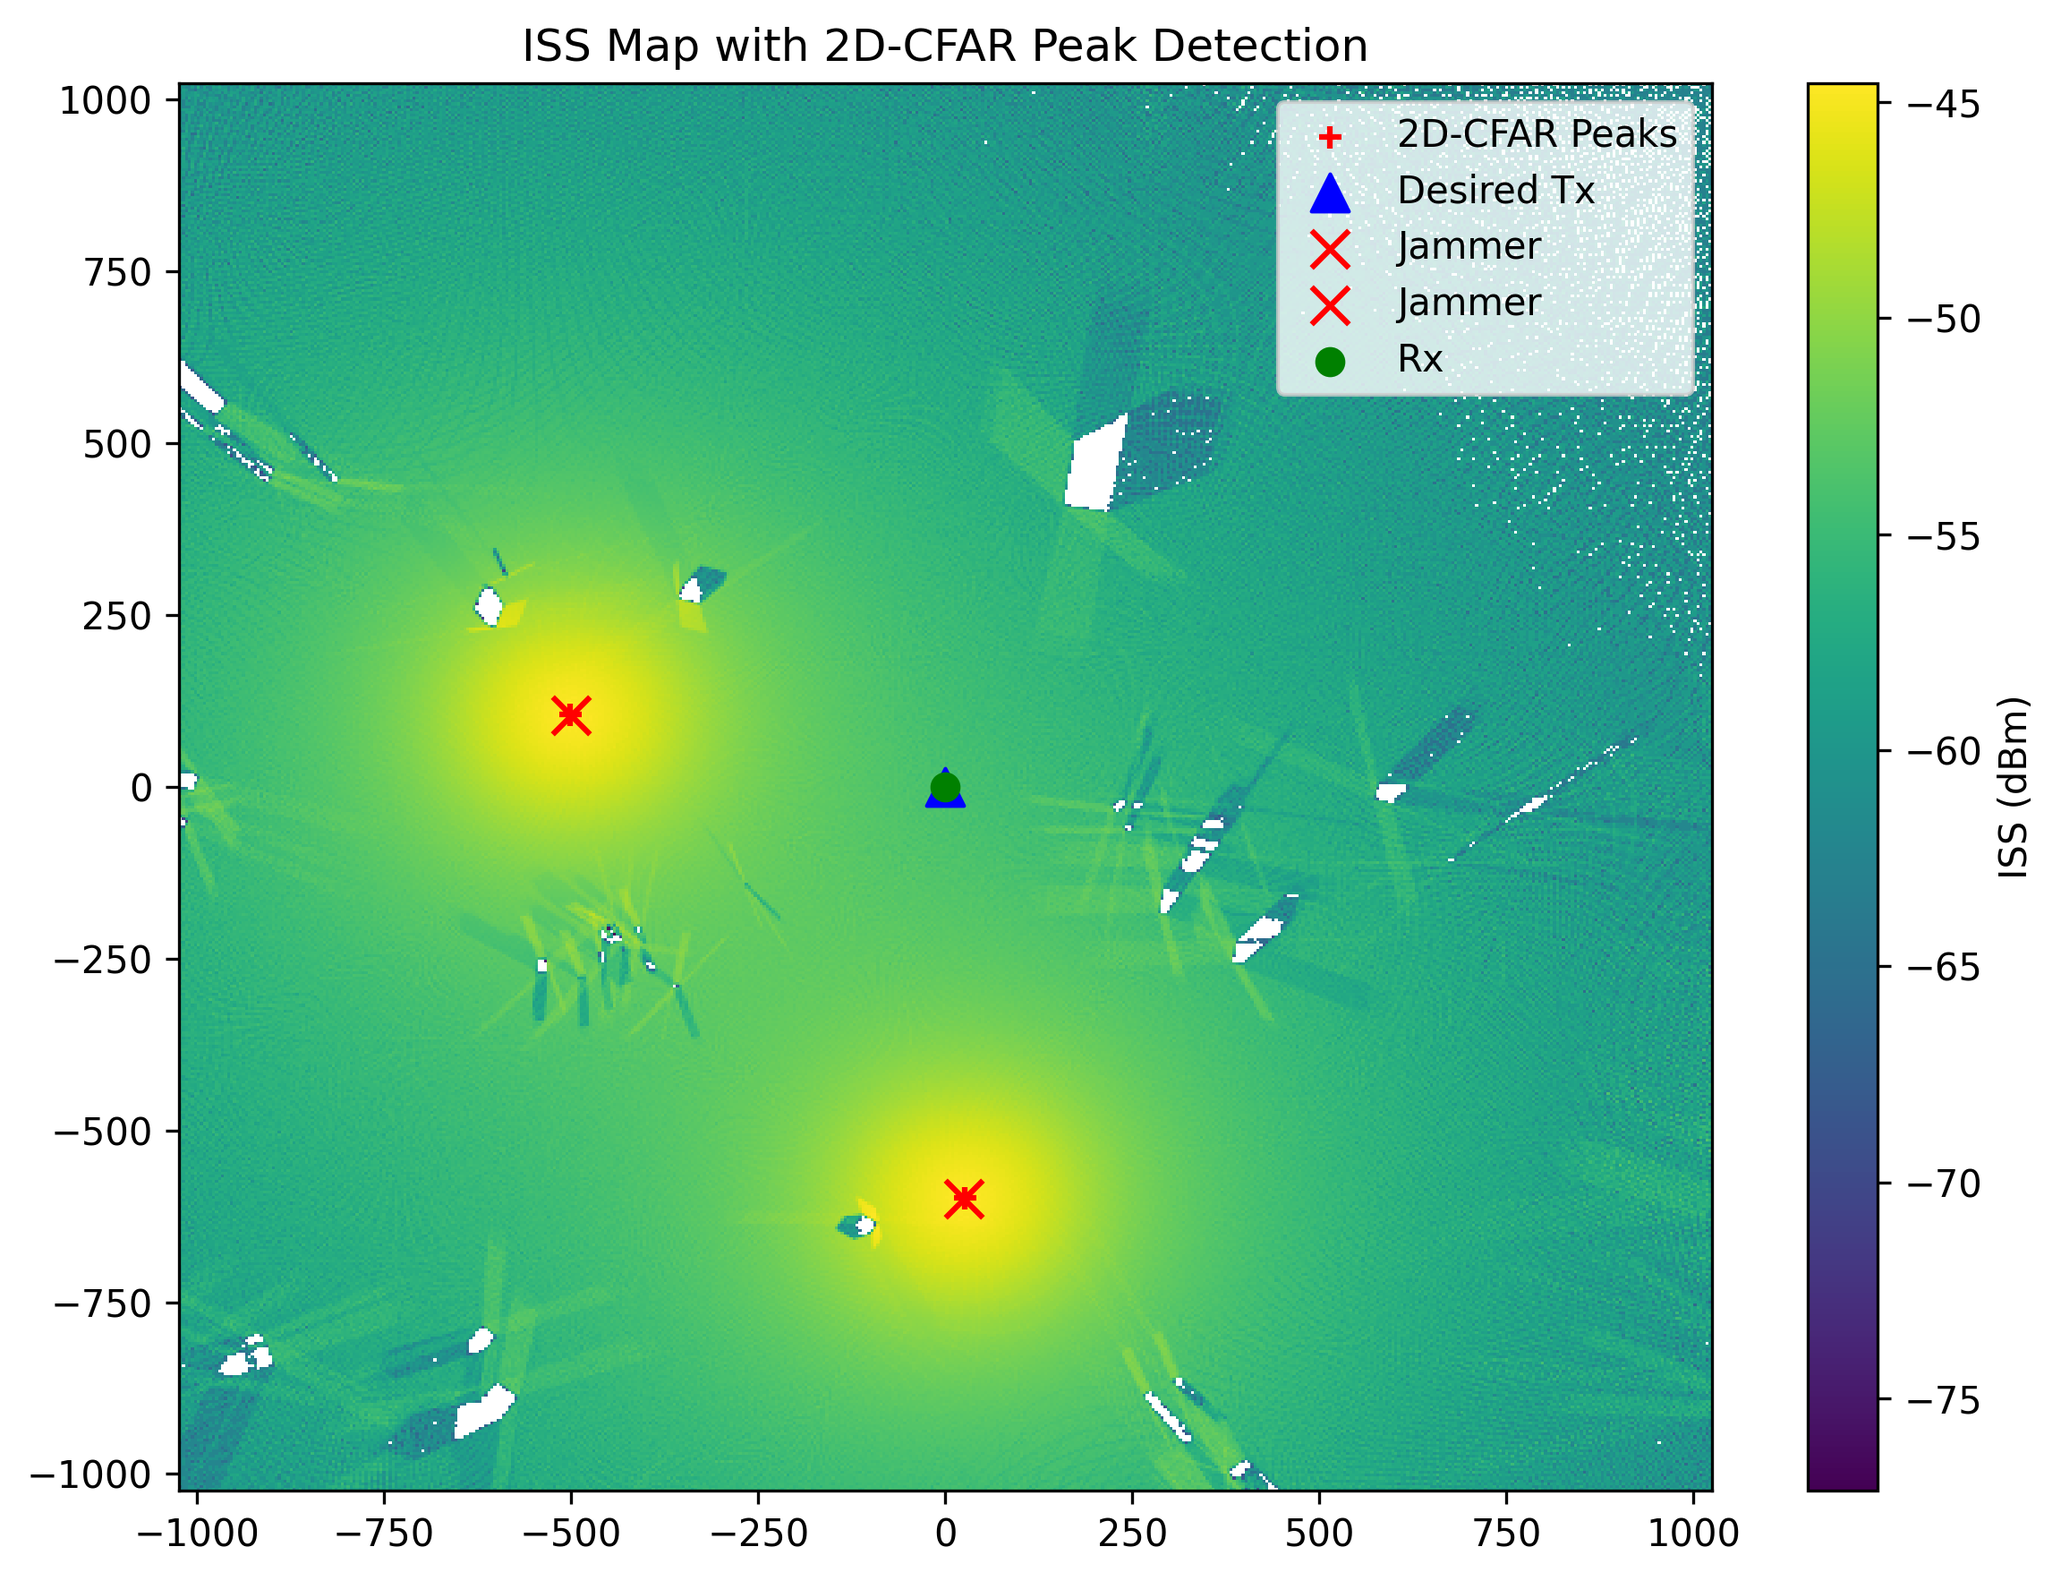
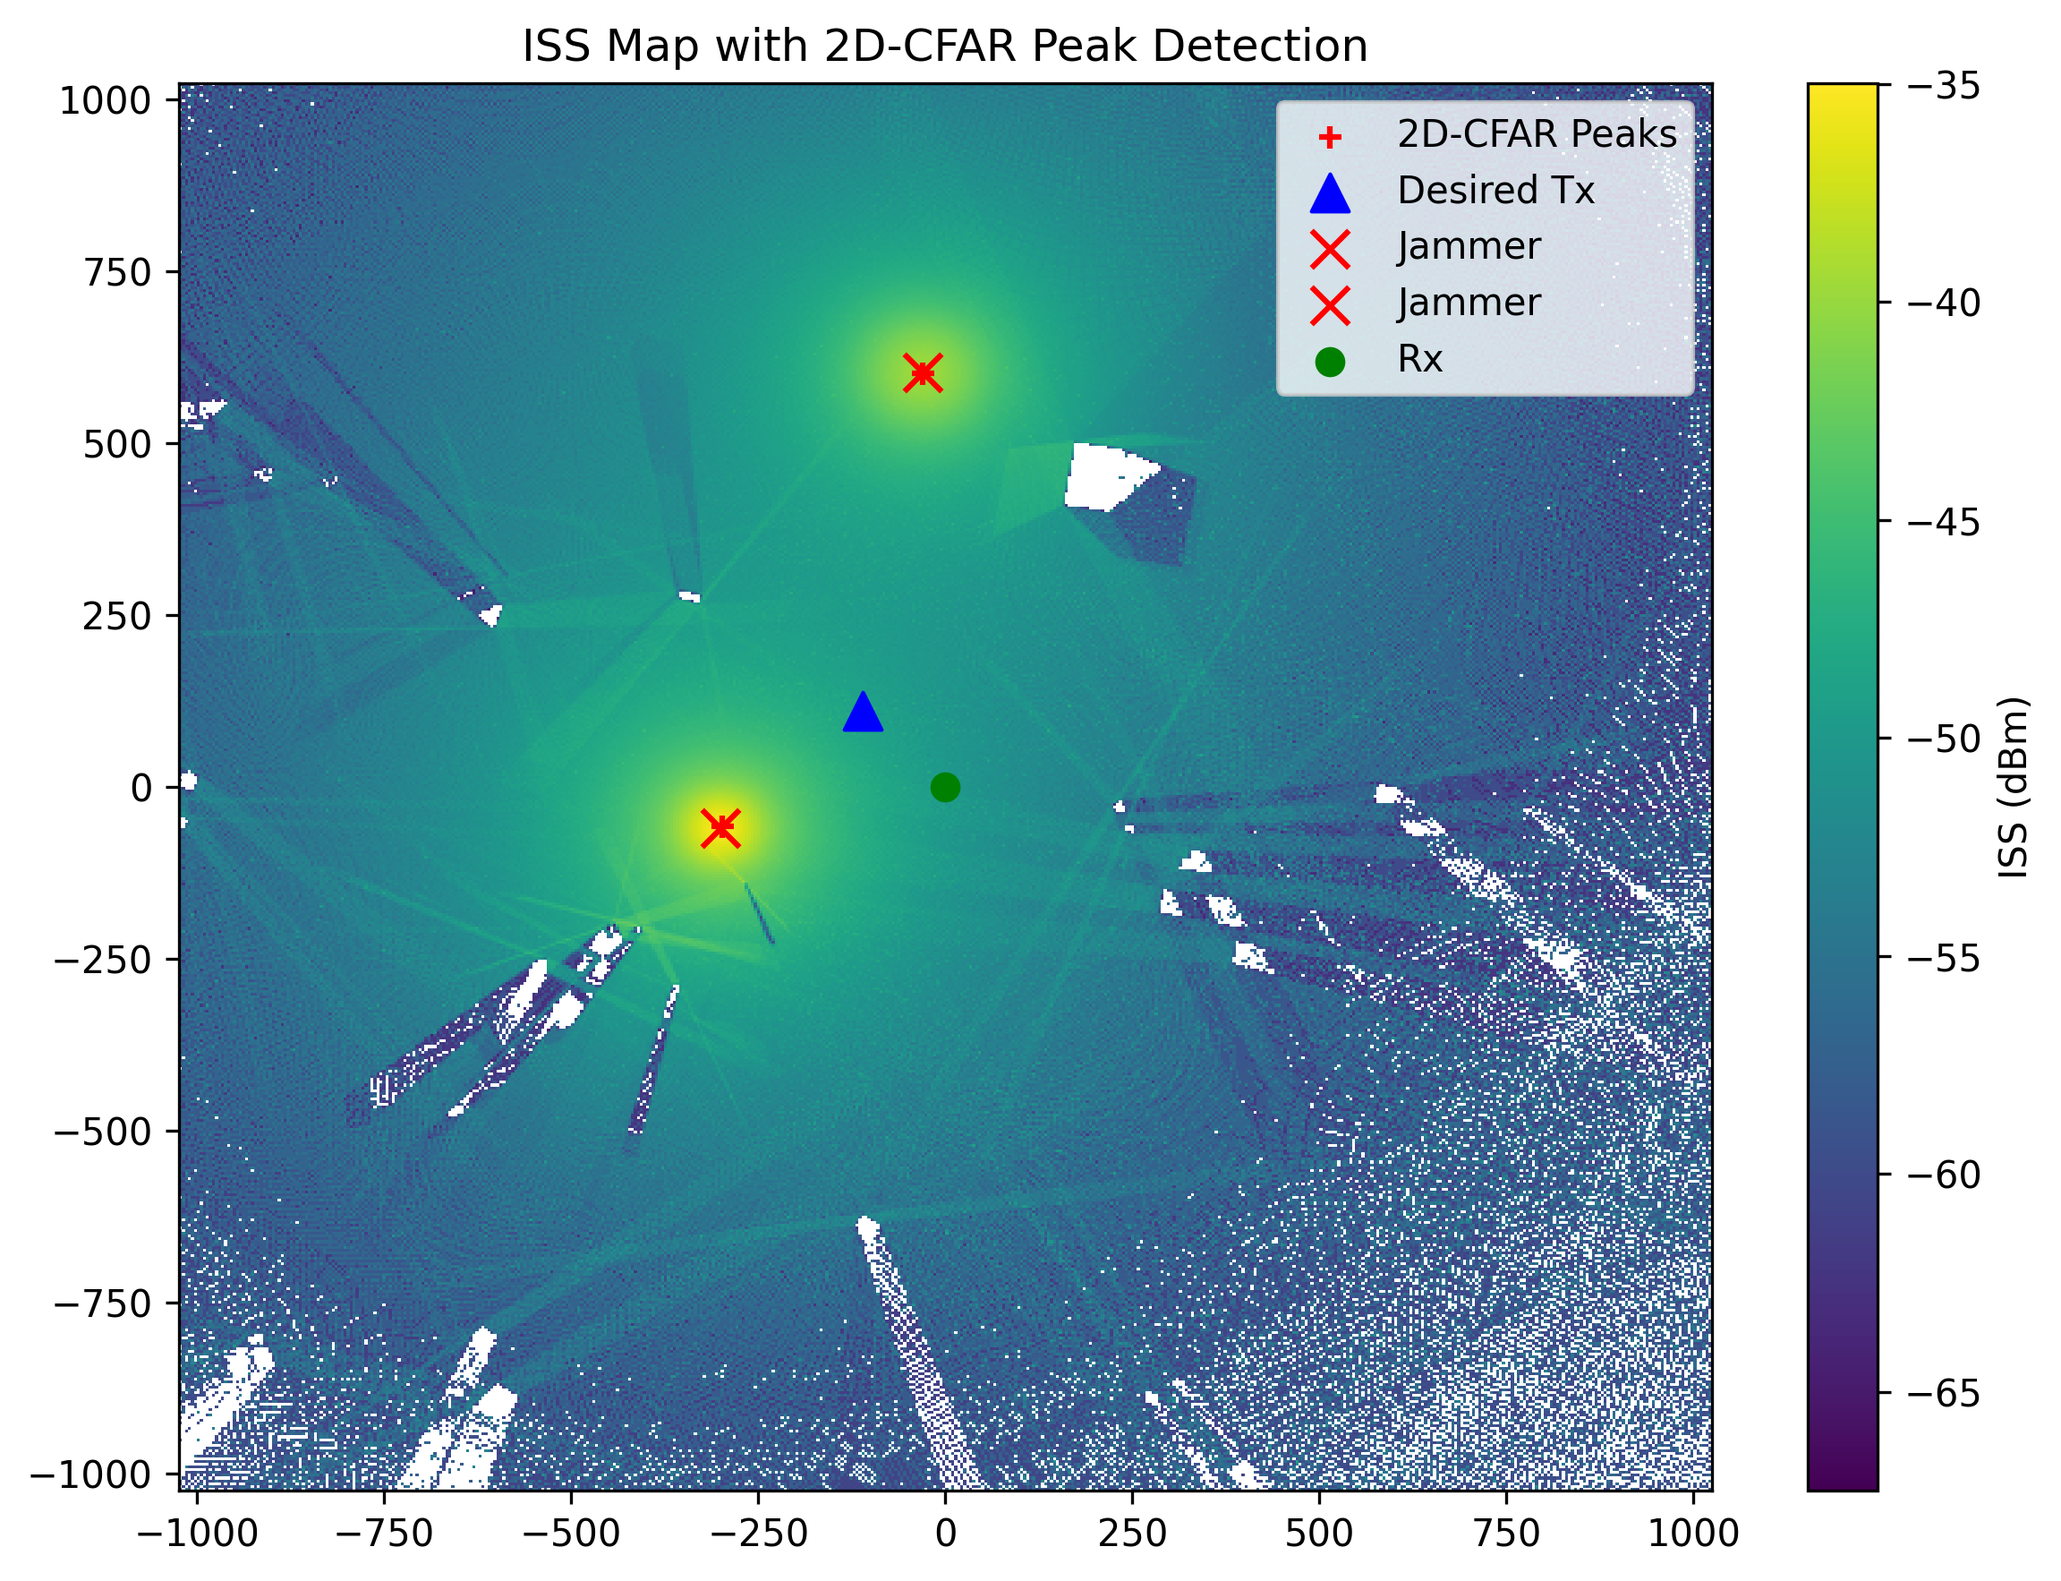
first commit07291

diff --git a/frontend/src/components/scenes/UAVPathVisualization.tsx b/frontend/src/components/scenes/UAVPathVisualization.tsx
@@ -1,0 +1,153 @@
+/**
+ * UAV Path Visualization Component
+ * 
+ * Renders colored path visualization for UAV sparse scanning
+ * Shows traversed positions with colors indicating signal strength
+ */
+
+import React, { useRef, useEffect } from 'react';
+import { extend, useFrame, useThree } from '@react-three/fiber';
+import * as THREE from 'three';
+
+// Make Line available in JSX
+extend({ Line: THREE.Line });
+
+export interface UAVPathPoint {
+  x: number;
+  y: number;
+  z: number;
+  timestamp: number;
+  color: string;
+}
+
+export interface UAVPathVisualizationProps {
+  pathPoints: UAVPathPoint[];
+  currentPosition?: [number, number, number];
+  lineWidth?: number;
+  showCurrentPosition?: boolean;
+  maxPathLength?: number; // Maximum number of path points to show
+}
+
+const UAVPathVisualization: React.FC<UAVPathVisualizationProps> = ({
+  pathPoints,
+  currentPosition,
+  lineWidth = 2,
+  showCurrentPosition = true,
+  maxPathLength = 1000
+}) => {
+  const lineRef = useRef<THREE.Line>(null);
+  const currentPosRef = useRef<THREE.Mesh>(null);
+  const { scene } = useThree();
+  
+  // Create line geometry and material
+  useEffect(() => {
+    if (!lineRef.current || pathPoints.length < 2) return;
+
+    // Limit path length to prevent performance issues
+    const displayPoints = pathPoints.slice(-maxPathLength);
+    
+    // Create geometry for the path line
+    const geometry = new THREE.BufferGeometry();
+    const positions = new Float32Array(displayPoints.length * 3);
+    const colors = new Float32Array(displayPoints.length * 3);
+    
+    displayPoints.forEach((point, index) => {
+      // Positions
+      positions[index * 3] = point.x;
+      positions[index * 3 + 1] = point.y;
+      positions[index * 3 + 2] = point.z;
+      
+      // Parse color from rgba string
+      const color = new THREE.Color();
+      if (point.color.startsWith('rgba(')) {
+        const values = point.color.match(/rgba\((\d+),\s*(\d+),\s*(\d+),\s*[\d.]+\)/);
+        if (values) {
+          color.setRGB(
+            parseInt(values[1]) / 255,
+            parseInt(values[2]) / 255,
+            parseInt(values[3]) / 255
+          );
+        }
+      } else {
+        color.set(point.color);
+      }
+      
+      colors[index * 3] = color.r;
+      colors[index * 3 + 1] = color.g;
+      colors[index * 3 + 2] = color.b;
+    });
+    
+    geometry.setAttribute('position', new THREE.BufferAttribute(positions, 3));
+    geometry.setAttribute('color', new THREE.BufferAttribute(colors, 3));
+    
+    // Update line geometry
+    lineRef.current.geometry.dispose();
+    lineRef.current.geometry = geometry;
+    
+  }, [pathPoints, maxPathLength]);
+
+  // Update current position indicator
+  useEffect(() => {
+    if (currentPosRef.current && currentPosition) {
+      currentPosRef.current.position.set(
+        currentPosition[0],
+        currentPosition[1],
+        currentPosition[2] + 2 // Slightly above the path
+      );
+    }
+  }, [currentPosition]);
+
+  // Animation for current position indicator
+  useFrame((state) => {
+    if (currentPosRef.current) {
+      // Pulse effect
+      const scale = 1 + Math.sin(state.clock.elapsedTime * 4) * 0.2;
+      currentPosRef.current.scale.setScalar(scale);
+    }
+  });
+
+  return (
+    <group>
+      {/* Path line */}
+      <line ref={lineRef}>
+        <bufferGeometry />
+        <lineBasicMaterial
+          vertexColors
+          linewidth={lineWidth}
+          transparent={true}
+          opacity={0.8}
+        />
+      </line>
+      
+      {/* Current position indicator */}
+      {showCurrentPosition && currentPosition && (
+        <mesh ref={currentPosRef} position={currentPosition}>
+          <sphereGeometry args={[1, 8, 6]} />
+          <meshBasicMaterial color="#ffffff" transparent opacity={0.9} />
+        </mesh>
+      )}
+      
+      {/* Start position marker */}
+      {pathPoints.length > 0 && (
+        <mesh position={[pathPoints[0].x, pathPoints[0].y, pathPoints[0].z + 1]}>
+          <coneGeometry args={[1.5, 3, 6]} />
+          <meshBasicMaterial color="#00ff00" />
+        </mesh>
+      )}
+      
+      {/* End position marker (if animation is finished) */}
+      {pathPoints.length > 1 && (
+        <mesh position={[
+          pathPoints[pathPoints.length - 1].x,
+          pathPoints[pathPoints.length - 1].y,
+          pathPoints[pathPoints.length - 1].z + 1
+        ]}>
+          <coneGeometry args={[1.5, 3, 6]} />
+          <meshBasicMaterial color="#ff0000" />
+        </mesh>
+      )}
+    </group>
+  );
+};
+
+export default UAVPathVisualization;

diff --git a/frontend/src/hooks/useSparseUAVScan.ts b/frontend/src/hooks/useSparseUAVScan.ts
@@ -19,6 +19,7 @@ export interface UseSparseUAVScanResult {
   isLoading: boolean;
   error: string | null;
   progress: number; // 0-100
+  traversedPath: Array<{x: number, y: number, z: number, timestamp: number, color: string}>;
   play: () => void;
   pause: () => void;
   reset: () => void;
@@ -55,6 +56,7 @@ export const useSparseUAVScan = (options: UseSparseUAVScanOptions): UseSparseUAV
   const [isPlaying, setIsPlaying] = useState(false);
   const [isLoading, setIsLoading] = useState(false);
   const [error, setError] = useState<string | null>(null);
+  const [traversedPath, setTraversedPath] = useState<Array<{x: number, y: number, z: number, timestamp: number, color: string}>>([]);
 
   // Animation refs
   const animationRef = useRef<number>();
@@ -64,6 +66,35 @@ export const useSparseUAVScan = (options: UseSparseUAVScanOptions): UseSparseUAV
   const progress = data && data.points.length > 0 
     ? Math.round((currentIdx / data.points.length) * 100) 
     : 0;
+
+  // Helper function to generate color based on signal strength and time
+  const generatePathColor = useCallback((iss_dbm: number, timestamp: number, index: number): string => {
+    // Color based on signal strength (ISS dBm value)
+    const minDbm = -120; // Typical minimum ISS value
+    const maxDbm = -60;   // Typical maximum ISS value
+    const normalizedSignal = Math.max(0, Math.min(1, (iss_dbm - minDbm) / (maxDbm - minDbm)));
+    
+    // Create color gradient: Red (weak) -> Yellow (medium) -> Green (strong)
+    let r, g, b;
+    if (normalizedSignal < 0.5) {
+      // Red to Yellow
+      const t = normalizedSignal * 2;
+      r = 255;
+      g = Math.round(255 * t);
+      b = 0;
+    } else {
+      // Yellow to Green
+      const t = (normalizedSignal - 0.5) * 2;
+      r = Math.round(255 * (1 - t));
+      g = 255;
+      b = 0;
+    }
+    
+    // Add slight transparency based on recency (newer points more opaque)
+    const alpha = Math.max(0.6, 1 - (index * 0.001)); // Fade older points slightly
+    
+    return `rgba(${r}, ${g}, ${b}, ${alpha})`;
+  }, []);
 
   // Load sparse scan data
   const loadData = useCallback(async () => {
@@ -89,8 +120,9 @@ export const useSparseUAVScan = (options: UseSparseUAVScanOptions): UseSparseUAV
       newSamples.fill(NaN);
       setSamples(newSamples);
       
-      // Reset position
+      // Reset position and path
       setCurrentIdx(0);
+      setTraversedPath([]);
       
       if (autoStart && response.points.length > 0) {
         setIsPlaying(true);
@@ -128,6 +160,19 @@ export const useSparseUAVScan = (options: UseSparseUAVScanOptions): UseSparseUAV
             return newSamples;
           });
           
+          // Add point to traversed path with color
+          const pathColor = generatePathColor(point.iss_dbm, timestamp, newIdx);
+          setTraversedPath(prevPath => [
+            ...prevPath,
+            {
+              x: point.x_m,
+              y: point.y_m,
+              z: 0, // UAV altitude could be added here if available
+              timestamp,
+              color: pathColor
+            }
+          ]);
+          
           console.log(`idx=${newIdx} / ${data.points.length}`);
           return newIdx;
         } else {
@@ -160,10 +205,22 @@ export const useSparseUAVScan = (options: UseSparseUAVScanOptions): UseSparseUAV
         }
         return newSamples;
       });
+      
+      // Initialize path with first point
+      const firstPoint = data.points[0];
+      const firstColor = generatePathColor(firstPoint.iss_dbm, performance.now(), 0);
+      setTraversedPath([{
+        x: firstPoint.x_m,
+        y: firstPoint.y_m,
+        z: 0,
+        timestamp: performance.now(),
+        color: firstColor
+      }]);
+      
       setIsPlaying(true);
       console.log('Starting sparse scan animation');
     }
-  }, [data]);
+  }, [data, generatePathColor]);
 
   const pause = useCallback(() => {
     setIsPlaying(false);
@@ -172,6 +229,7 @@ export const useSparseUAVScan = (options: UseSparseUAVScanOptions): UseSparseUAV
   const reset = useCallback(() => {
     setIsPlaying(false);
     setCurrentIdx(0);
+    setTraversedPath([]);
     
     if (data) {
       // Reset samples to all NaN
@@ -253,6 +311,7 @@ export const useSparseUAVScan = (options: UseSparseUAVScanOptions): UseSparseUAV
     isLoading,
     error,
     progress,
+    traversedPath,
     play,
     pause,
     reset,

diff --git a/frontend/src/components/scenes/StereogramView.tsx b/frontend/src/components/scenes/StereogramView.tsx
@@ -5,6 +5,7 @@ import * as THREE from 'three'
 import Starfield from '../ui/Starfield'
 import MainScene from './MainScene'
 import SparseISSCanvas from './SparseISSCanvas'
+import UAVPathVisualization from './UAVPathVisualization'
 import { Device } from '../../types/device'
 import { VisibleSatelliteInfo } from '../../types/satellite'
 import { UseDroneTrackingReturn } from '../../hooks/useDroneTracking'
@@ -66,6 +67,7 @@ export default function SceneView({
     
     // Sparse scan state
     const [showSparseScan, setShowSparseScan] = useState(false)
+    const [showPathVisualization, setShowPathVisualization] = useState(true)
     const [scanParams, setScanParams] = useState({
         step_x: 4,
         step_y: 4,
@@ -84,6 +86,16 @@ export default function SceneView({
     // Use passed droneTracking or create fallback
     const { isTracking, recordPosition } = droneTracking || { isTracking: false, recordPosition: async () => false }
     const lastRecordedDevicePositions = useRef<Map<number, { x: number; y: number; time: number }>>(new Map())
+    
+    // Calculate current UAV position from sparse scan data
+    const currentUAVPosition: [number, number, number] | undefined = 
+        sparseScan.data && sparseScan.currentIdx < sparseScan.data.points.length
+            ? [
+                sparseScan.data.points[sparseScan.currentIdx].x_m,
+                sparseScan.data.points[sparseScan.currentIdx].y_m,
+                50 // Default UAV altitude
+              ]
+            : undefined;
 
     // Enhanced position update handler that includes drone tracking
     const handleUAVPositionUpdate = useCallback(async (
@@ -321,6 +333,13 @@ export default function SceneView({
                                 className="control-btn export-btn"
                             >
                                 匯出CSV
+                            </button>
+                            <button 
+                                onClick={() => setShowPathVisualization(!showPathVisualization)}
+                                className="control-btn path-btn"
+                                style={{ backgroundColor: showPathVisualization ? '#4CAF50' : '#666' }}
+                            >
+                                {showPathVisualization ? '隱藏' : '顯示'}路徑
                             </button>
                             <button 
                                 onClick={() => {
@@ -596,6 +615,18 @@ export default function SceneView({
                         sparseScanCurrentIdx={sparseScan.currentIdx}
                         sparseScanActive={sparseScan.isPlaying}
                     />
+                    
+                    {/* UAV Path Visualization */}
+                    {showPathVisualization && sparseScan.traversedPath.length > 0 && (
+                        <UAVPathVisualization
+                            pathPoints={sparseScan.traversedPath}
+                            currentPosition={currentUAVPosition}
+                            lineWidth={3}
+                            showCurrentPosition={true}
+                            maxPathLength={500}
+                        />
+                    )}
+                    
                     <ContactShadows
                         position={[0, 0.1, 0]}
                         opacity={0.4}
@@ -764,6 +795,7 @@ styleSheet.innerHTML = `
 .pause-btn { border-color: #ff9800; }
 .reset-btn { border-color: #f44336; }
 .export-btn { border-color: #2196F3; }
+.path-btn { border-color: #9C27B0; }
 
 .scan-progress {
     margin-bottom: 8px;

diff --git a/backend/app/domains/simulation/services/sionna_service.py b/backend/app/domains/simulation/services/sionna_service.py
@@ -975,7 +975,7 @@ async def generate_sinr_map(
         ax.set_xlabel("x (m)")
         ax.set_ylabel("y (m)")
         ax.set_title("SINR Map")
-        ax.invert_yaxis()
+        # Removed ax.invert_yaxis() to match frontend coordinate system
         plt.tight_layout()
 
         # 保存圖片
@@ -1835,9 +1835,11 @@ async def generate_iss_map(
             # 添加發射器
             transmitters = []
             for tx_info in tx_list:
+                # Convert y coordinate to -y for consistent coordinate system
+                tx_position = [tx_info["position"][0], -tx_info["position"][1], tx_info["position"][2]]
                 tx = SionnaTransmitter(
                     name=tx_info["name"],
-                    position=tx_info["position"],
+                    position=tx_position,
                     orientation=tx_info["orientation"],
                     power_dbm=tx_info["power_dbm"]
                 )
@@ -1848,7 +1850,9 @@ async def generate_iss_map(
 
             # 添加接收器
             rx_name, rx_pos = rx_config
-            rx = SionnaReceiver(name=rx_name, position=rx_pos)
+            # Convert y coordinate to -y for consistent coordinate system
+            rx_position = [rx_pos[0], -rx_pos[1], rx_pos[2]]
+            rx = SionnaReceiver(name=rx_name, position=rx_position)
             scene.add(rx)
 
             # 計算無線電地圖
@@ -1942,7 +1946,9 @@ async def generate_iss_map(
         # 可視化
         logger.info("生成 ISS 地圖可視化")
         plt.figure(figsize=(8, 6))
-        plt.pcolormesh(x_unique, y_unique, iss_dbm, shading='nearest', cmap='viridis')
+        # Use meshgrid like SINR map for consistent coordinate handling
+        X, Y = np.meshgrid(x_unique, y_unique)
+        plt.pcolormesh(X, Y, iss_dbm, shading='nearest', cmap='viridis')
         plt.colorbar(label="ISS (dBm)")
         plt.title("ISS Map with 2D-CFAR Peak Detection")
         
